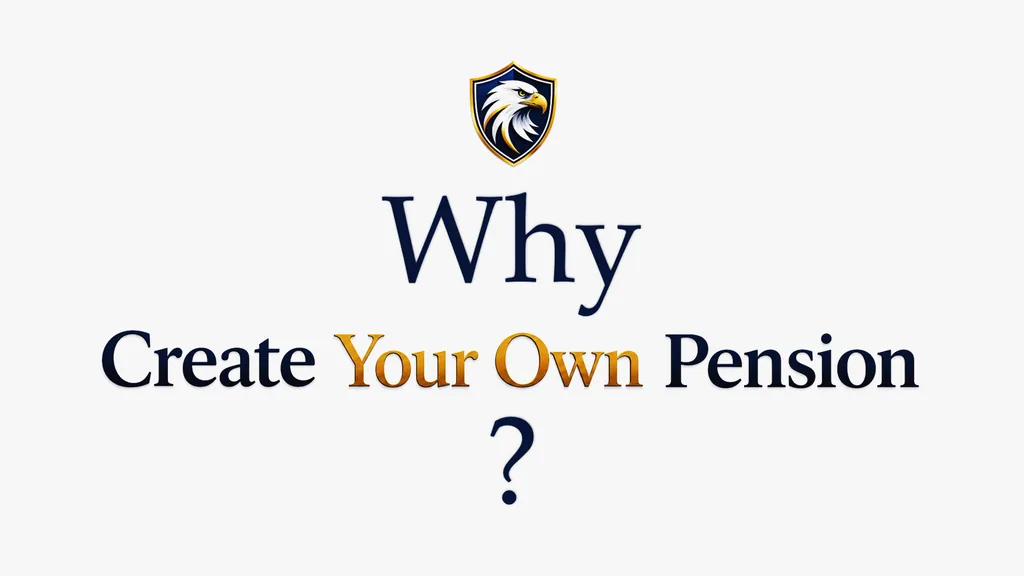
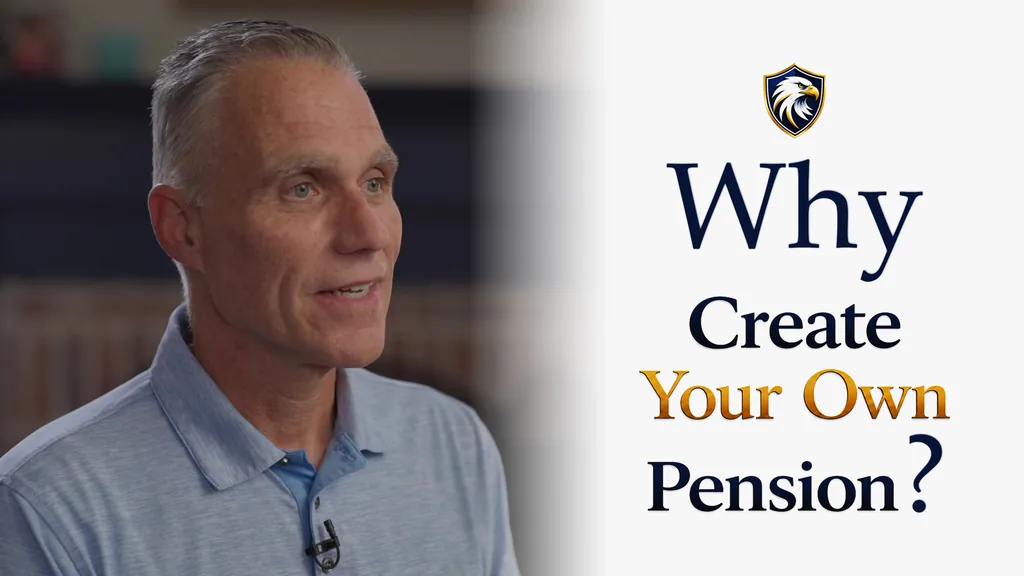
Hero: new video with revised title card, new thumbnail with John, badge moved left

diff --git a/css/style.css b/css/style.css
@@ -894,7 +894,7 @@ main {
 
 .hero-video-badge {
   position: absolute;
-  right: 4%;
+  left: 4%;
   bottom: 6%;
   display: inline-flex;
   align-items: center;
